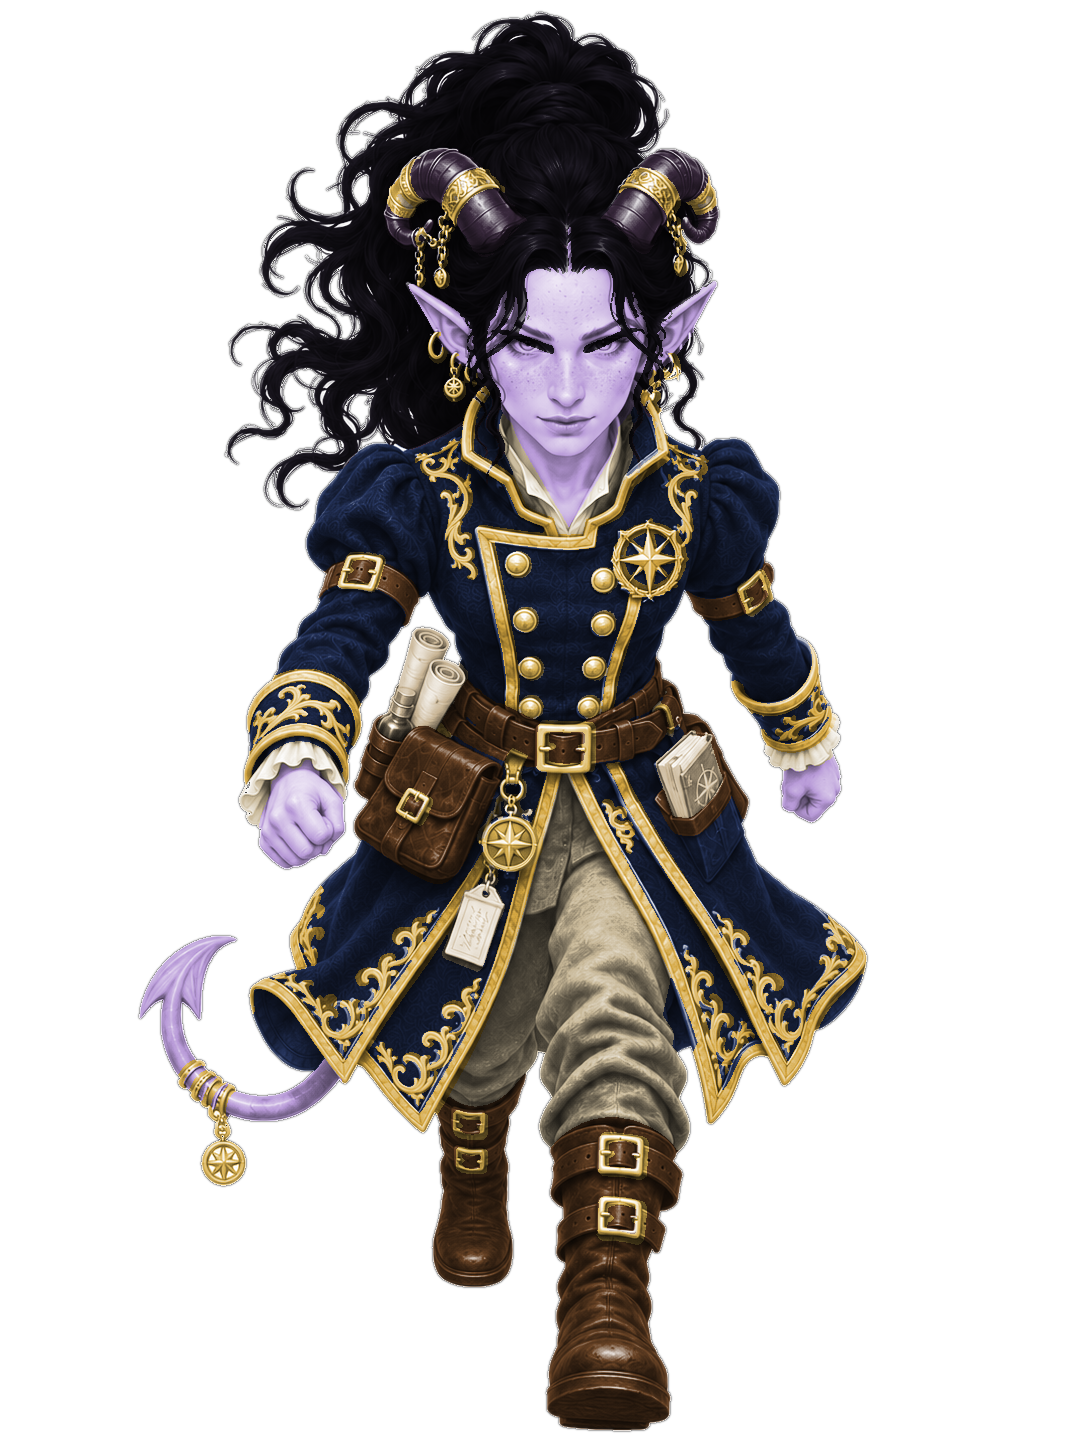
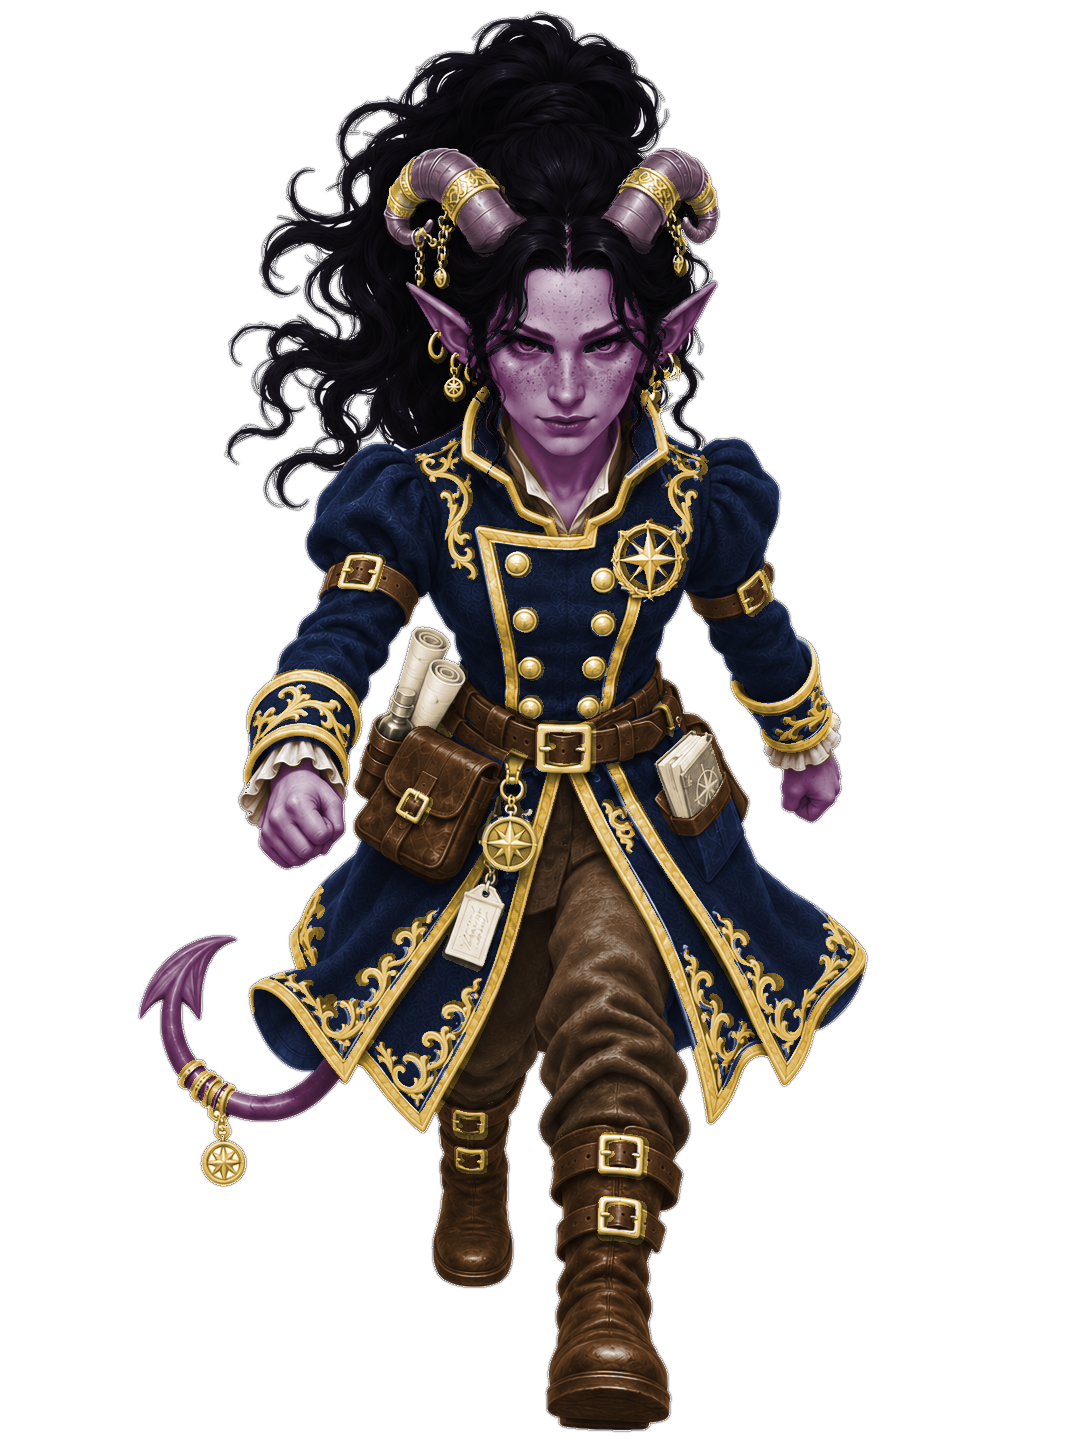
Tamsin : peau plus mauve et pantalon brun, comme son portrait
Claude-Session: https://claude.ai/code/session_01F13QTHtRPRAg87rG7j2jCn

diff --git a/kit-personnages/outils/guilde_couleur.py b/kit-personnages/outils/guilde_couleur.py
@@ -48,7 +48,7 @@ BASE={'veste':'#26355e','galon':'#d4a640','metal':'#d8b050','cuir':'#6a4426','ti
 EMP={
  'pax':dict(peau='#9a7a86',poils='#e8e0d4',veste='#8a1e22',tissu='#b89a78',metal='#e0b84a'),
  'oswin':dict(peau='#ecc4a8',poils='#f2f0ea'),
- 'tamsin':dict(peau='#b89ad8',poils='#1e1a24',corne='#3a2a3e'),
+ 'tamsin':dict(peau='#6a3460',poils='#1e1a24',corne='#7a5a6e',tissu='#6a4c34'),
  'corisande':dict(peau='#e4bc9c',poils='#b8b4ac'),
  'hrolf':dict(peau='#7e9070',poils='#1c1a1a',corne='#ece4cc'),
  'durgan':dict(peau='#e4ac8c',poils='#b24a26'),
